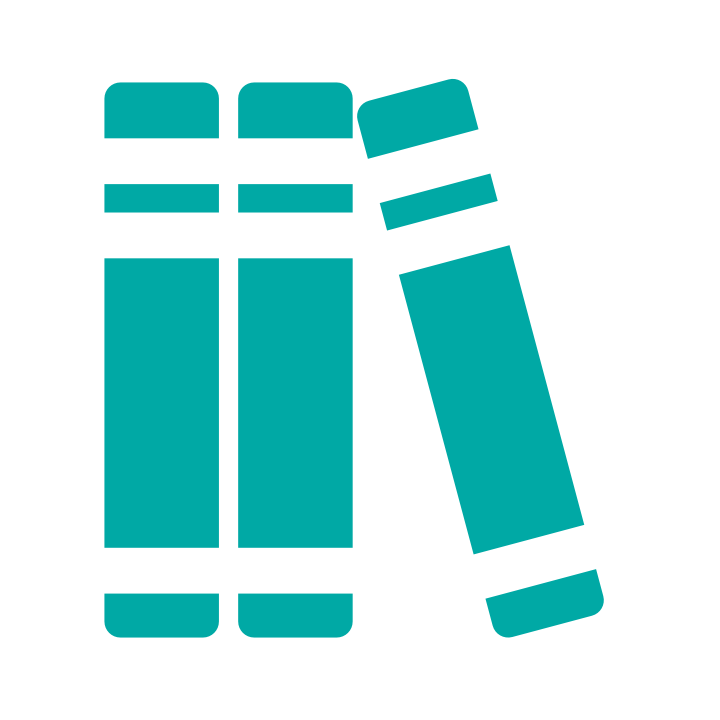
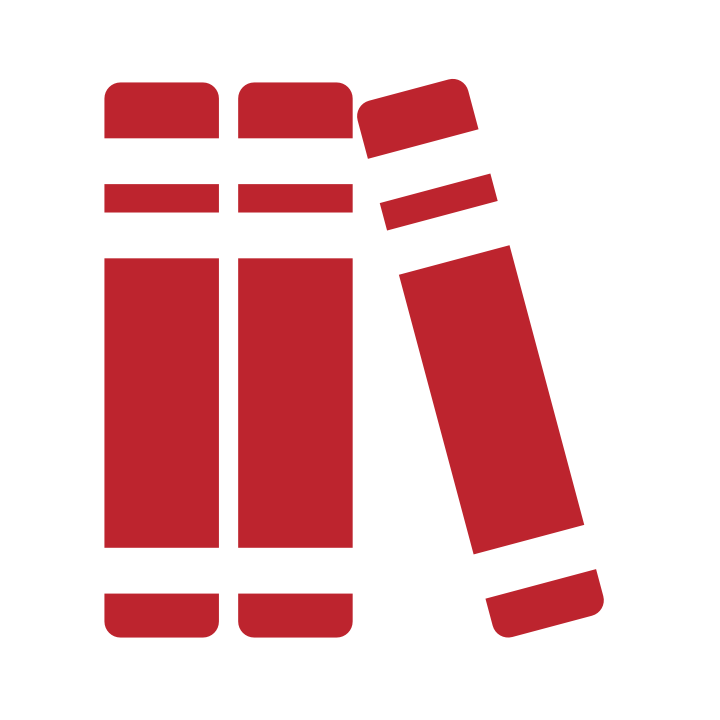
work the colors

diff --git a/public/stylesheets/books/index.css b/public/stylesheets/books/index.css
@@ -1,11 +1,3 @@
-body {
-  --lav: #e9c583;
-  --verm: #83272d;
-  --charGreen: #293132;
-  --seaGreen: #00A9A5;
-  --greYell: #A8C256;
-}
-
 table {
   font-size: 2rem;
 }
@@ -26,8 +18,8 @@ table td {
 }
 
 
-tr:hover {
-  background-color: #bda06a;
+tbody > tr:hover {
+  background-color: var(--lavHover);
 }
 
 a {
@@ -35,7 +27,7 @@ a {
 }
 
 a:hover {
-  color: #7a252b;
+  color: var(--vermHover);
 }
 
 
@@ -44,12 +36,8 @@ form {
   font-size: 2rem;
 }
 
-form > label {
-  font-family: "Cinzel";
-}
 
 form * {
-  font-family: "Space Grotesk", sans-serif;
   padding: 5px;
   border-radius: 5px;
   font-size: 3rem;
@@ -58,7 +46,7 @@ form * {
 
 form > button {
   grid-column: span 2;
-  width: 16rem;
+  width: 17rem;
   margin-left: auto;
   font-size: 2.2rem;
 }
@@ -69,10 +57,11 @@ form > button {
 
 #delete-book-button {
   font-size: 2rem;
-  color: var(--charGreen);
-  background-color: #d33f4980;
-}
+  color: whitesmoke;
+  background-color: var(--lav);
+  border: 2px solid var(--verm)
+} 
 
 #delete-book-button:hover {
-  background-color: #d33f49;
+  background-color: var(--charHover);
 }

diff --git a/public/stylesheets/style.css b/public/stylesheets/style.css
@@ -18,14 +18,15 @@ html {
 }
 
 body {
-  --lav: #e9c583;
-  --verm: #83272d;
-  --charGreen: #293132;
-  --seaGreen: #00A9A5;
-  --greYell: #A8C256;
+  --lav: #c8ece6;
+  --verm: #2a4a5e;
+  --charGreen: #273541;
+  --lavHover: #a8c5c0;
+  --vermHover: #1b2f3b;
+  --charHover: hsl(208, 0%, 20%);
   background-color: var(--lav);
   /* Use a system font, if none are available use an available sans-sarif font */
-  font-family: "Cinzel", system-ui, -apple-system, BlinkMacSystemFont, "Segoe UI",
+  font-family: "Space Grotesk", system-ui, -apple-system, BlinkMacSystemFont, "Segoe UI",
         Roboto, Oxygen-Sans, Ubuntu, Cantarell, "Helvetica Neue", sans-serif;
   margin: 0;
   font-size: 2.5rem;
@@ -43,8 +44,12 @@ nav {
   padding-right: 10rem;
 }
 
-nav > button {
+.nav-button {
   border-radius: 5px;
+  background: var(--lav);
+  color: var(--verm);
+  border: 1px solid var(--verm);
+  font-weight: bold;
 }
 
 main {
@@ -79,4 +84,8 @@ p {
 
 button {
   border-radius: 5px;
+}
+
+form * {
+  color: var(--charGreen);
 }

diff --git a/public/stylesheets/books/edit.css b/public/stylesheets/books/edit.css
@@ -1,11 +1,3 @@
-body {
-  --lav: #e9c583;
-  --verm: #83272d;
-  --charGreen: #293132;
-  --seaGreen: #00A9A5;
-  --greYell: #A8C256;
-}
-
 form {
   display: grid;
   grid-gap: 10px;
@@ -13,16 +5,13 @@ form {
   font-size: 2rem;
 }
 
-form > label {
-  font-family: "Cinzel";
-}
 
 form * {
-  font-family: "Space Grotesk", sans-serif;
   padding: 5px;
   border-radius: 5px;
   font-size: 3rem;
   font-weight: bold;
+  color: var(--verm)
 }
 
 form > button {
@@ -30,4 +19,5 @@ form > button {
   width: 16rem;
   margin-left: auto;
   font-size: 2.2rem;
+  color: var(--verm)
 }

diff --git a/public/stylesheets/books/new.css b/public/stylesheets/books/new.css
@@ -1,11 +1,3 @@
-body {
-  --lav: #e9c583;
-  --verm: #83272d;
-  --charGreen: #293132;
-  --seaGreen: #00A9A5;
-  --greYell: #A8C256;
-}
-
 form {
   display: grid;
   grid-gap: 10px;
@@ -14,11 +6,10 @@ form {
 }
 
 form > label {
-  font-family: "Cinzel";
+  color: var(--verm)
 }
 
 form * {
-  font-family: "Space Grotesk", sans-serif;
   padding: 5px;
   border-radius: 5px;
   font-size: 3rem;
@@ -27,7 +18,8 @@ form * {
 
 form > button {
   grid-column: span 2;
-  width: 16rem;
+  width: 17rem;
   margin-left: auto;
   font-size: 2.2rem;
+  color: var(--verm);
 }

diff --git a/public/stylesheets/books/show.css b/public/stylesheets/books/show.css
@@ -1,11 +1,3 @@
-body {
-  --lav: #e9c583;
-  --verm: #83272d;
-  --charGreen: #293132;
-  --seaGreen: #00A9A5;
-  --greYell: #A8C256;
-}
-
 ul {
   margin: 0 0 1.6rem;
   padding: 0;
@@ -116,16 +108,12 @@ section div:nth-child(even) {
   font-size: 2rem;
 }
 
-#add-to-shelf > form > label {
-  font-family: "Cinzel";
-}
 
 #shelf-Id {
   min-width: 40px;
 }
 
 #add-to-shelf > form * {
-  font-family: "Space Grotesk", sans-serif;
   padding: 5px;
   border-radius: 5px;
   font-size: 3rem;

diff --git a/public/stylesheets/shelves/index.css b/public/stylesheets/shelves/index.css
@@ -1,11 +1,3 @@
-body {
-  --lav: #e9c583;
-  --verm: #83272d;
-  --charGreen: #293132;
-  --seaGreen: #00A9A5;
-  --greYell: #A8C256;
-}
-
 main {
   margin-top: 30px;
   margin-bottom: 30px;
